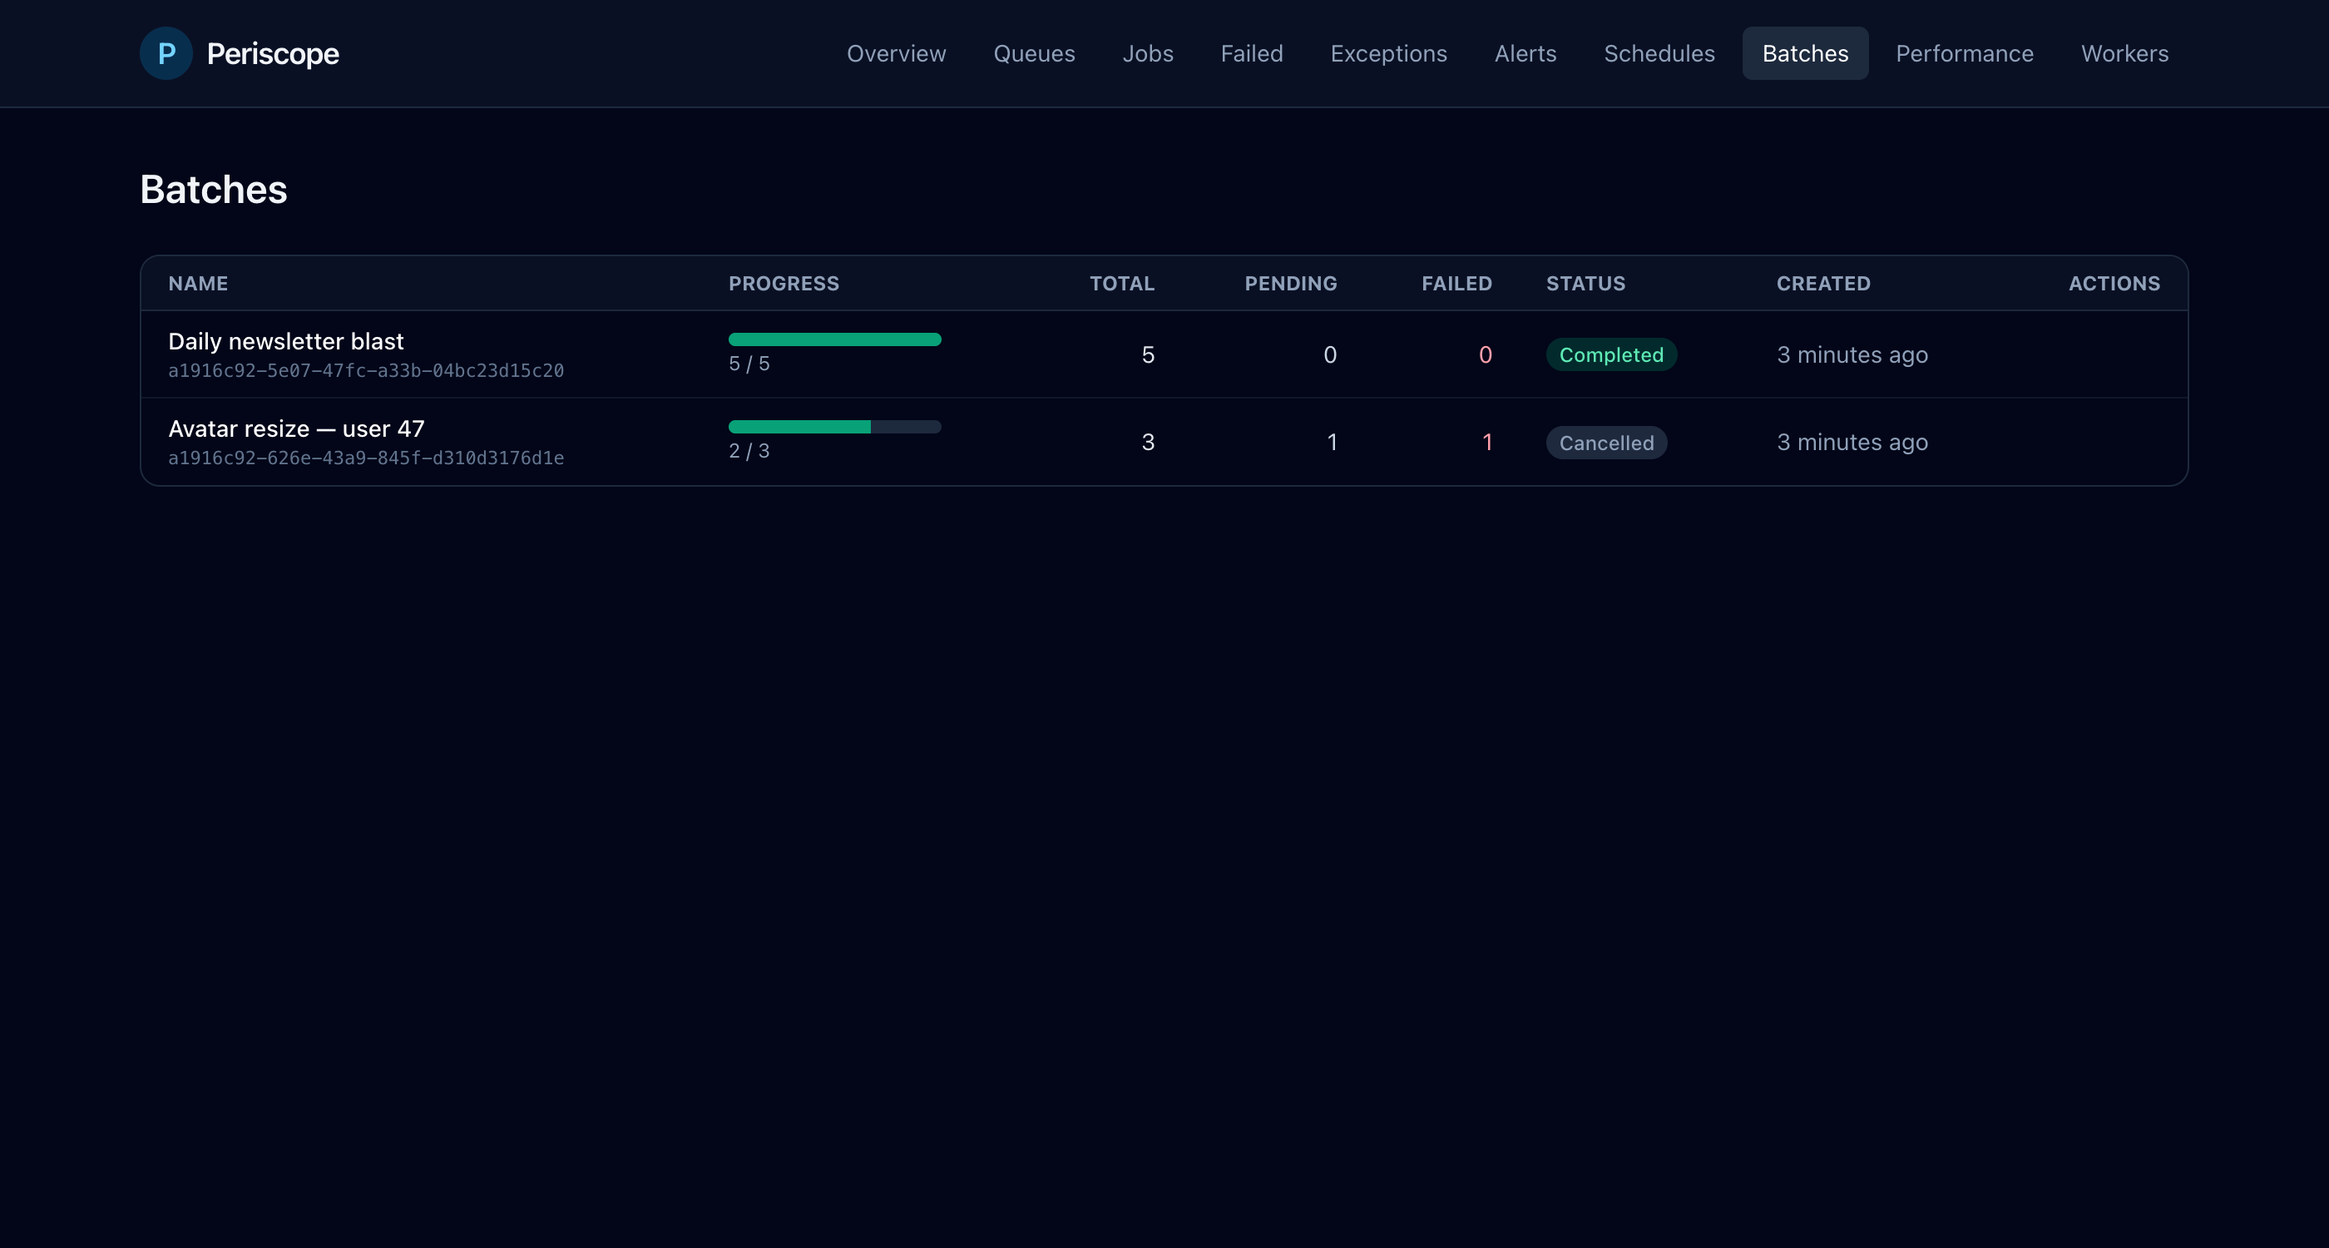
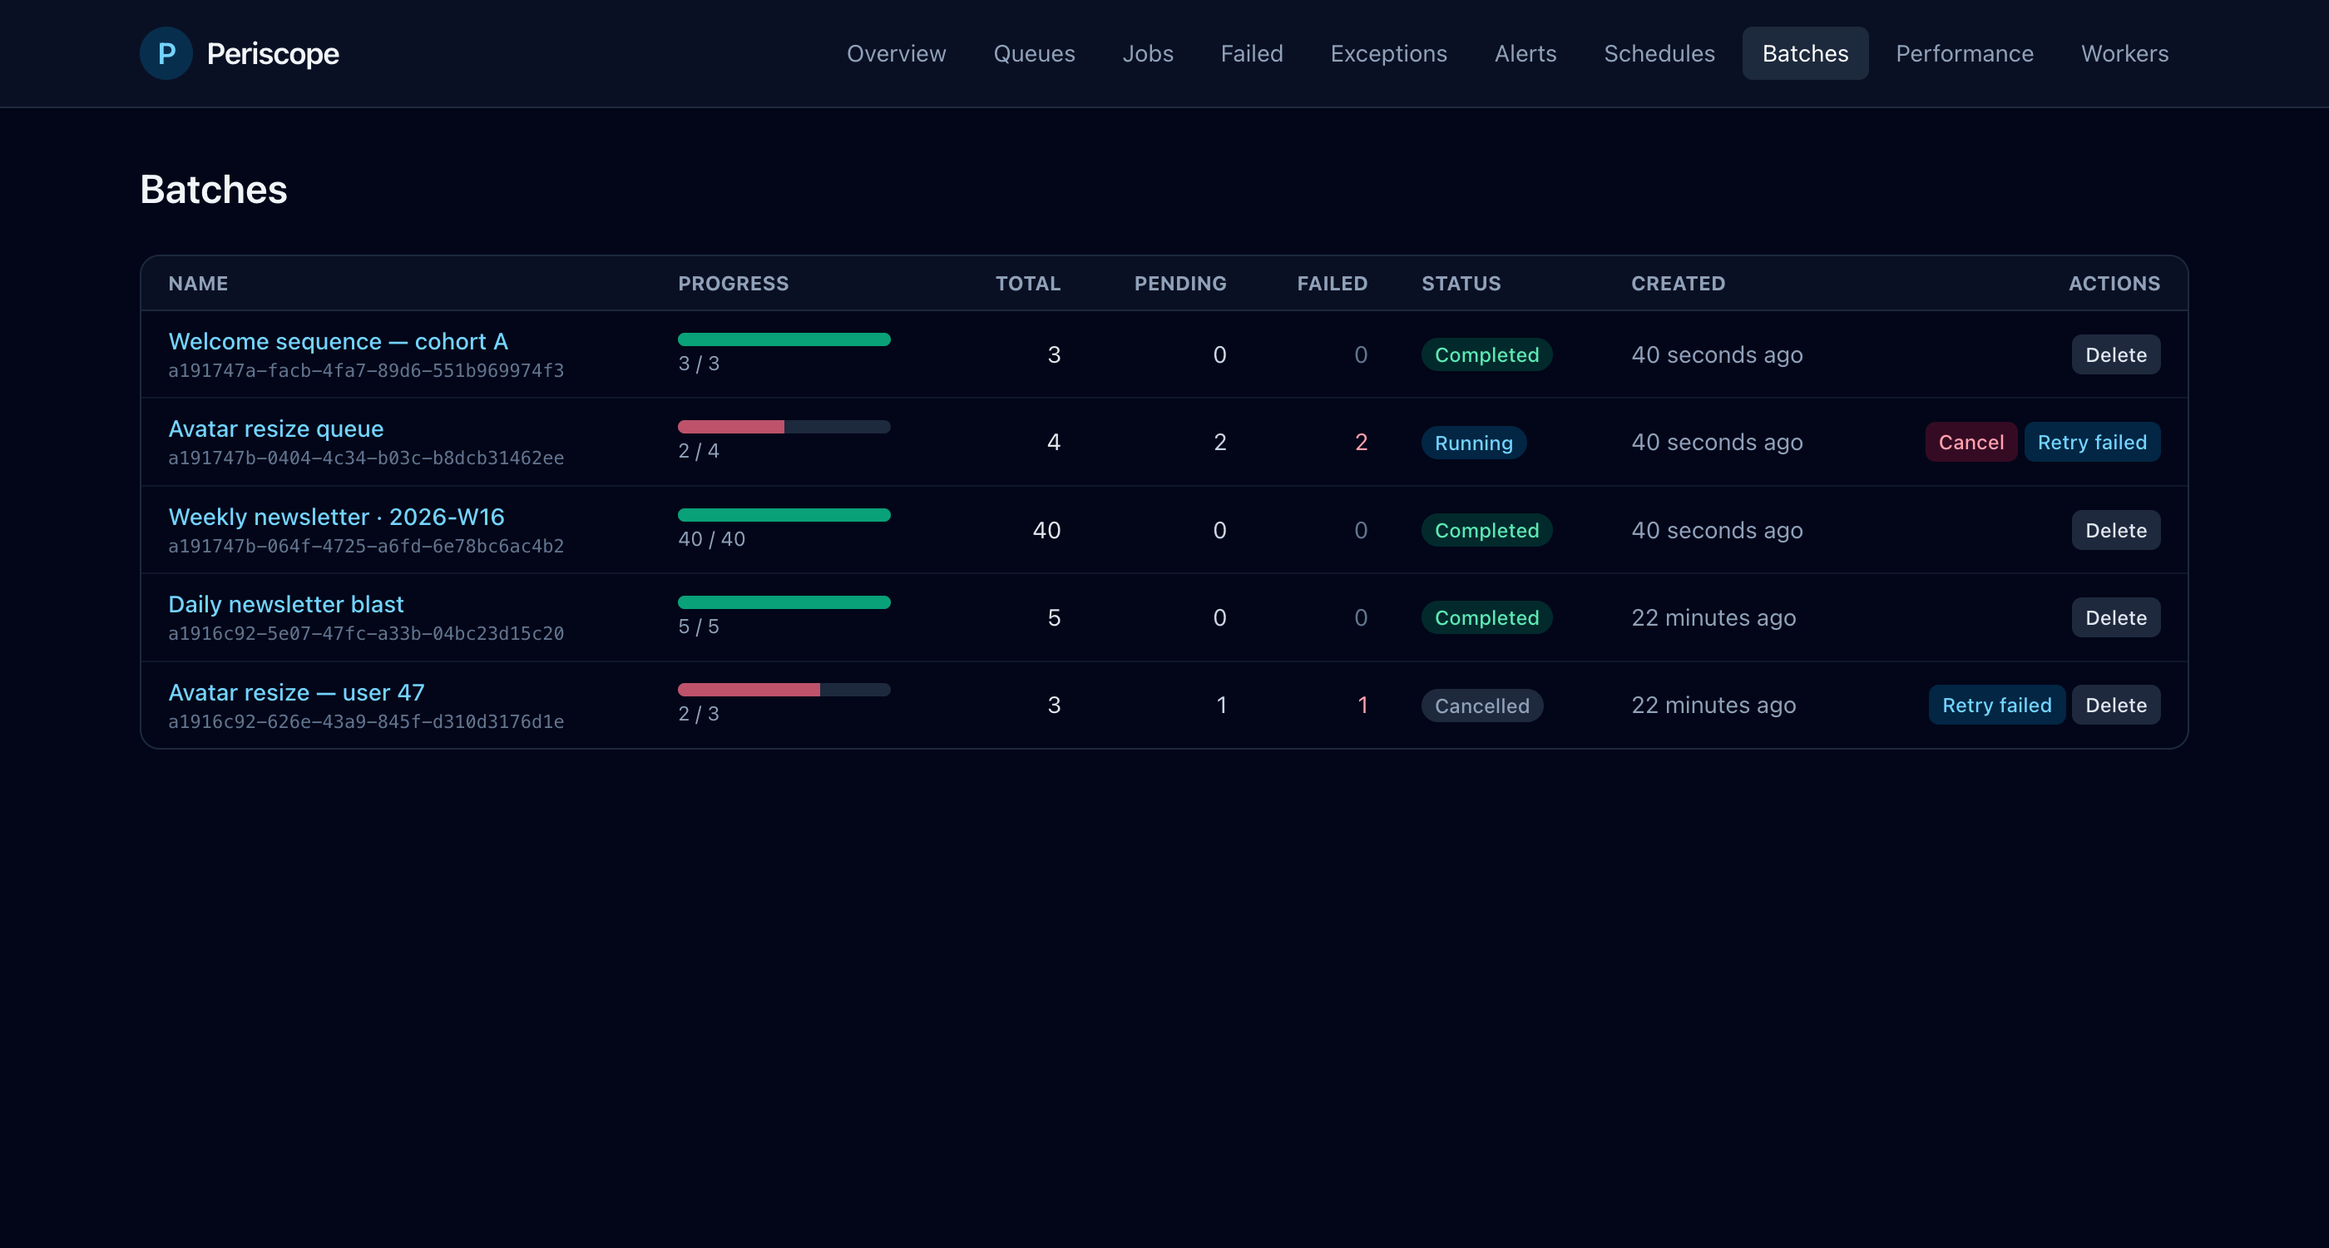
feat(batches): retry failed, delete, detail page, auto-refresh
- periscope_jobs gains batch_id column; listener extracts it from
  payload so jobs can be grouped per batch
- Batches list adds 'Retry failed' and 'Delete' actions alongside
  Cancel; rows now link to the detail page
- /batches/{id} shows batch metadata, progress bar, and paginated
  list of every MonitoredJob in that batch
- wire:poll.visible.5s on both list and detail so live progress
  updates without refreshing
- Test suite unchanged at 21/21 passing

diff --git a/resources/views/livewire/batch-detail.blade.php b/resources/views/livewire/batch-detail.blade.php
@@ -1,0 +1,79 @@
+<div wire:poll.visible.5s class="space-y-6">
+    @if ($batch)
+        @php
+            $done = $batch->total_jobs - $batch->pending_jobs;
+            $pct = $batch->total_jobs > 0 ? (int) round($done / $batch->total_jobs * 100) : 0;
+            $status = $batch->cancelled_at ? 'cancelled' : ($batch->finished_at ? ($batch->failed_jobs > 0 ? 'failed' : 'completed') : 'running');
+        @endphp
+        <div>
+            <h1 class="text-2xl font-semibold">{{ $batch->name ?: 'Unnamed batch' }}</h1>
+            <div class="mt-1 font-mono text-xs text-slate-500">{{ $batch->id }}</div>
+        </div>
+
+        <div class="grid grid-cols-2 gap-4 md:grid-cols-4">
+            @foreach ([
+                'Status' => null,
+                'Total' => number_format($batch->total_jobs),
+                'Pending' => number_format($batch->pending_jobs),
+                'Failed' => number_format($batch->failed_jobs),
+                'Progress' => $pct.'%',
+                'Created' => \Illuminate\Support\Carbon::createFromTimestamp($batch->created_at)->toDateTimeString(),
+                'Finished' => $batch->finished_at ? \Illuminate\Support\Carbon::createFromTimestamp($batch->finished_at)->diffForHumans() : '—',
+                'Cancelled' => $batch->cancelled_at ? \Illuminate\Support\Carbon::createFromTimestamp($batch->cancelled_at)->diffForHumans() : '—',
+            ] as $label => $value)
+                <div class="rounded-xl border border-slate-800 bg-slate-900/50 p-4">
+                    <div class="text-xs uppercase tracking-wide text-slate-400">{{ $label }}</div>
+                    <div class="mt-1 text-sm text-white">
+                        @if ($label === 'Status')
+                            @include('periscope::partials.status-badge', ['status' => $status])
+                        @else
+                            {{ $value }}
+                        @endif
+                    </div>
+                </div>
+            @endforeach
+        </div>
+
+        <div class="h-2 overflow-hidden rounded-full bg-slate-800">
+            <div class="h-full {{ $batch->failed_jobs > 0 ? 'bg-rose-400/70' : 'bg-emerald-400/70' }}" style="width: {{ $pct }}%"></div>
+        </div>
+    @else
+        <div class="rounded-xl border border-slate-800 bg-slate-900/50 p-6 text-center text-slate-400">
+            Batch <code>{{ $batchId }}</code> not found — it may have been pruned.
+        </div>
+    @endif
+
+    <div>
+        <h2 class="mb-2 text-sm font-semibold uppercase tracking-wide text-slate-400">Jobs in this batch</h2>
+        <div class="overflow-hidden rounded-xl border border-slate-800">
+            <table class="w-full divide-y divide-slate-800 text-left text-sm">
+                <thead class="bg-slate-900/60 text-xs uppercase text-slate-400">
+                    <tr>
+                        <th class="px-4 py-2">Job</th>
+                        <th class="px-4 py-2">Status</th>
+                        <th class="px-4 py-2">Attempts</th>
+                        <th class="px-4 py-2">Runtime</th>
+                        <th class="px-4 py-2">Finished</th>
+                    </tr>
+                </thead>
+                <tbody class="divide-y divide-slate-800/50">
+                    @forelse ($jobs as $job)
+                        <tr class="hover:bg-slate-900/40">
+                            <td class="px-4 py-2">
+                                <a href="{{ route('periscope.jobs.show', $job->uuid) }}" class="font-medium text-sky-300 hover:underline">{{ $job->name }}</a>
+                                <div class="font-mono text-[11px] text-slate-500">{{ $job->uuid }}</div>
+                            </td>
+                            <td class="px-4 py-2">@include('periscope::partials.status-badge', ['status' => $job->status])</td>
+                            <td class="px-4 py-2 text-slate-300">{{ $job->attempts }}</td>
+                            <td class="px-4 py-2 text-slate-300">{{ $job->runtime_ms !== null ? number_format($job->runtime_ms).' ms' : '—' }}</td>
+                            <td class="px-4 py-2 text-slate-400">{{ $job->finished_at?->diffForHumans() ?? '—' }}</td>
+                        </tr>
+                    @empty
+                        <tr><td colspan="5" class="px-4 py-8 text-center text-slate-500">No jobs recorded for this batch yet.</td></tr>
+                    @endforelse
+                </tbody>
+            </table>
+        </div>
+        <div class="mt-2">{{ $jobs->links() }}</div>
+    </div>
+</div>

diff --git a/resources/views/livewire/batches-table.blade.php b/resources/views/livewire/batches-table.blade.php
@@ -1,4 +1,4 @@
-<div class="space-y-4">
+<div wire:poll.visible.5s class="space-y-4">
     @if (! $exists)
         <div class="rounded-xl border border-amber-500/30 bg-amber-500/10 p-4 text-sm text-amber-200">
             Laravel's <code class="rounded bg-slate-800 px-1">job_batches</code> table does not exist. Run
@@ -27,29 +27,38 @@
                         $done = $batch->total_jobs - $batch->pending_jobs;
                         $pct = $batch->total_jobs > 0 ? (int) round($done / $batch->total_jobs * 100) : 0;
                         $status = $batch->cancelled_at ? 'cancelled' : ($batch->finished_at ? ($batch->failed_jobs > 0 ? 'failed' : 'completed') : 'running');
+                        $running = ! $batch->finished_at && ! $batch->cancelled_at;
                     @endphp
                     <tr class="hover:bg-slate-900/40">
                         <td class="px-4 py-2">
-                            <div class="font-medium text-white">{{ $batch->name ?: 'Unnamed batch' }}</div>
+                            <a href="{{ route('periscope.batches.show', $batch->id) }}" class="font-medium text-sky-300 hover:underline">
+                                {{ $batch->name ?: 'Unnamed batch' }}
+                            </a>
                             <div class="font-mono text-[11px] text-slate-500">{{ $batch->id }}</div>
                         </td>
                         <td class="px-4 py-2">
                             <div class="h-2 w-32 overflow-hidden rounded-full bg-slate-800">
-                                <div class="h-full bg-emerald-400/70" style="width: {{ $pct }}%"></div>
+                                <div class="h-full {{ $batch->failed_jobs > 0 ? 'bg-rose-400/70' : 'bg-emerald-400/70' }}" style="width: {{ $pct }}%"></div>
                             </div>
                             <div class="mt-0.5 text-xs text-slate-400">{{ $done }} / {{ $batch->total_jobs }}</div>
                         </td>
                         <td class="px-4 py-2 text-right text-slate-200">{{ number_format($batch->total_jobs) }}</td>
                         <td class="px-4 py-2 text-right text-slate-300">{{ number_format($batch->pending_jobs) }}</td>
-                        <td class="px-4 py-2 text-right text-rose-300">{{ number_format($batch->failed_jobs) }}</td>
+                        <td class="px-4 py-2 text-right {{ $batch->failed_jobs > 0 ? 'text-rose-300' : 'text-slate-500' }}">{{ number_format($batch->failed_jobs) }}</td>
                         <td class="px-4 py-2">@include('periscope::partials.status-badge', ['status' => $status])</td>
                         <td class="px-4 py-2 text-slate-400">{{ \Illuminate\Support\Carbon::createFromTimestamp($batch->created_at)->diffForHumans() }}</td>
-                        <td class="px-4 py-2 text-right">
-                            @if (! $batch->finished_at && ! $batch->cancelled_at)
+                        <td class="space-x-1 px-4 py-2 text-right">
+                            @if ($running)
                                 <button wire:click="cancel('{{ $batch->id }}')" wire:confirm="Cancel this batch?"
-                                    class="rounded-md bg-rose-500/20 px-2 py-1 text-xs font-medium text-rose-300 hover:bg-rose-500/30">
-                                    Cancel
-                                </button>
+                                    class="rounded-md bg-rose-500/20 px-2 py-1 text-xs font-medium text-rose-300 hover:bg-rose-500/30">Cancel</button>
+                            @endif
+                            @if ($batch->failed_jobs > 0)
+                                <button wire:click="retryFailed('{{ $batch->id }}')"
+                                    class="rounded-md bg-sky-500/20 px-2 py-1 text-xs font-medium text-sky-300 hover:bg-sky-500/30">Retry failed</button>
+                            @endif
+                            @if (! $running)
+                                <button wire:click="delete('{{ $batch->id }}')" wire:confirm="Remove this batch record?"
+                                    class="rounded-md bg-slate-700/60 px-2 py-1 text-xs font-medium text-slate-200 hover:bg-slate-700">Delete</button>
                             @endif
                         </td>
                     </tr>

diff --git a/src/Livewire/BatchesTable.php b/src/Livewire/BatchesTable.php
@@ -3,6 +3,7 @@
 namespace MaherElGamil\Periscope\Livewire;
 
 use Illuminate\Bus\BatchRepository;
+use Illuminate\Support\Facades\Artisan;
 use Illuminate\Support\Facades\DB;
 use Illuminate\Support\Facades\Schema;
 use Livewire\Component;
@@ -14,13 +15,46 @@ class BatchesTable extends Component
 
     public function cancel(string $id): void
     {
-        $bus = app(BatchRepository::class);
-        $batch = $bus->find($id);
+        $batch = app(BatchRepository::class)->find($id);
 
         if ($batch !== null) {
             $batch->cancel();
             session()->flash('periscope.message', 'Batch cancelled.');
         }
+    }
+
+    public function retryFailed(string $id): void
+    {
+        $batch = app(BatchRepository::class)->find($id);
+
+        if ($batch === null) {
+            return;
+        }
+
+        $failed = (array) ($batch->failedJobIds ?? []);
+
+        if ($failed === []) {
+            session()->flash('periscope.message', 'No failed jobs to retry.');
+
+            return;
+        }
+
+        foreach ($failed as $failedId) {
+            Artisan::call('queue:retry', ['id' => [$failedId]]);
+        }
+
+        $count = count($failed);
+        session()->flash('periscope.message', "Retried {$count} failed job(s) in batch.");
+    }
+
+    public function delete(string $id): void
+    {
+        $connection = config('queue.batching.database') ?? config('database.default');
+        $table = config('queue.batching.table', 'job_batches');
+
+        DB::connection($connection)->table($table)->where('id', $id)->delete();
+
+        session()->flash('periscope.message', 'Batch record removed.');
     }
 
     public function render()

diff --git a/src/Livewire/BatchDetail.php b/src/Livewire/BatchDetail.php
@@ -1,0 +1,36 @@
+<?php
+
+namespace MaherElGamil\Periscope\Livewire;
+
+use Illuminate\Support\Facades\DB;
+use Livewire\Component;
+use Livewire\WithPagination;
+use MaherElGamil\Periscope\Models\MonitoredJob;
+
+class BatchDetail extends Component
+{
+    use WithPagination;
+
+    public string $batchId = '';
+
+    public function render()
+    {
+        $connection = config('queue.batching.database') ?? config('database.default');
+        $table = config('queue.batching.table', 'job_batches');
+
+        $batch = DB::connection($connection)
+            ->table($table)
+            ->where('id', $this->batchId)
+            ->first();
+
+        $jobs = MonitoredJob::query()
+            ->where('batch_id', $this->batchId)
+            ->latest('id')
+            ->paginate(25);
+
+        return view('periscope::livewire.batch-detail', [
+            'batch' => $batch,
+            'jobs' => $jobs,
+        ]);
+    }
+}

diff --git a/src/PeriscopeServiceProvider.php b/src/PeriscopeServiceProvider.php
@@ -21,6 +21,7 @@ use MaherElGamil\Periscope\Console\TerminateCommand;
 use MaherElGamil\Periscope\Listeners\RecordJobLifecycle;
 use MaherElGamil\Periscope\Listeners\RecordScheduleLifecycle;
 use MaherElGamil\Periscope\Livewire\AlertsTable;
+use MaherElGamil\Periscope\Livewire\BatchDetail;
 use MaherElGamil\Periscope\Livewire\BatchesTable;
 use MaherElGamil\Periscope\Livewire\ExceptionDetail;
 use MaherElGamil\Periscope\Livewire\ExceptionsTable;
@@ -110,6 +111,7 @@ class PeriscopeServiceProvider extends ServiceProvider
         Livewire::component('periscope.alerts-table', AlertsTable::class);
         Livewire::component('periscope.schedules-table', SchedulesTable::class);
         Livewire::component('periscope.batches-table', BatchesTable::class);
+        Livewire::component('periscope.batch-detail', BatchDetail::class);
         Livewire::component('periscope.performance-table', PerformanceTable::class);
     }
 

diff --git a/database/migrations/2026_01_01_000009_add_batch_id_to_periscope_jobs.php b/database/migrations/2026_01_01_000009_add_batch_id_to_periscope_jobs.php
@@ -1,0 +1,33 @@
+<?php
+
+use Illuminate\Database\Migrations\Migration;
+use Illuminate\Database\Schema\Blueprint;
+use Illuminate\Support\Facades\Schema;
+
+return new class extends Migration
+{
+    public function up(): void
+    {
+        $this->schema()->table($this->prefix().'jobs', function (Blueprint $table) {
+            $table->string('batch_id')->nullable()->index()->after('job_id');
+        });
+    }
+
+    public function down(): void
+    {
+        $this->schema()->table($this->prefix().'jobs', function (Blueprint $table) {
+            $table->dropIndex(['batch_id']);
+            $table->dropColumn('batch_id');
+        });
+    }
+
+    protected function schema()
+    {
+        return Schema::connection(config('periscope.storage.connection'));
+    }
+
+    protected function prefix(): string
+    {
+        return config('periscope.storage.table_prefix', 'periscope_');
+    }
+};

diff --git a/src/Listeners/RecordJobLifecycle.php b/src/Listeners/RecordJobLifecycle.php
@@ -96,6 +96,7 @@ class RecordJobLifecycle
                 ['uuid' => $uuid],
                 [
                     'job_id' => $this->stringOrNull($event->id),
+                    'batch_id' => $payload['data']['batchId'] ?? null,
                     'name' => $payload['displayName'] ?? $this->jobName($event->job) ?? 'unknown',
                     'connection' => $event->connectionName,
                     'queue' => $queue,
@@ -156,6 +157,7 @@ class RecordJobLifecycle
             MonitoredJob::query()->create([
                 'uuid' => $uuid,
                 'job_id' => $this->stringOrNull($event->job->getJobId()),
+                'batch_id' => $payload['data']['batchId'] ?? null,
                 'name' => $payload['displayName'] ?? $event->job->getName(),
                 'connection' => $event->connectionName,
                 'queue' => $queue,

diff --git a/routes/web.php b/routes/web.php
@@ -15,6 +15,7 @@ Route::get('/exceptions/show', [DashboardController::class, 'exception'])->name(
 Route::get('/alerts', [DashboardController::class, 'alerts'])->name('periscope.alerts');
 Route::get('/schedules', [DashboardController::class, 'schedules'])->name('periscope.schedules');
 Route::get('/batches', [DashboardController::class, 'batches'])->name('periscope.batches');
+Route::get('/batches/{id}', [DashboardController::class, 'batch'])->name('periscope.batches.show');
 Route::get('/performance', [DashboardController::class, 'performance'])->name('periscope.performance');
 
 if (config('periscope.metrics.enabled', true)) {

diff --git a/resources/views/batch.blade.php b/resources/views/batch.blade.php
@@ -1,0 +1,8 @@
+@extends('periscope::layout')
+@section('title', 'Batch')
+@section('content')
+    <div class="mb-4">
+        <a href="{{ route('periscope.batches') }}" class="text-xs text-slate-400 hover:text-sky-300">&larr; All batches</a>
+    </div>
+    <livewire:periscope.batch-detail :batch-id="$id" />
+@endsection

diff --git a/src/Http/Controllers/DashboardController.php b/src/Http/Controllers/DashboardController.php
@@ -103,6 +103,11 @@ class DashboardController extends Controller
         return view('periscope::batches');
     }
 
+    public function batch(string $id)
+    {
+        return view('periscope::batch', ['id' => $id]);
+    }
+
     public function performance()
     {
         return view('periscope::performance');
